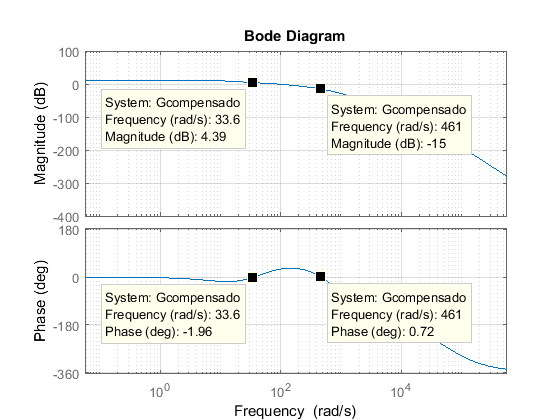
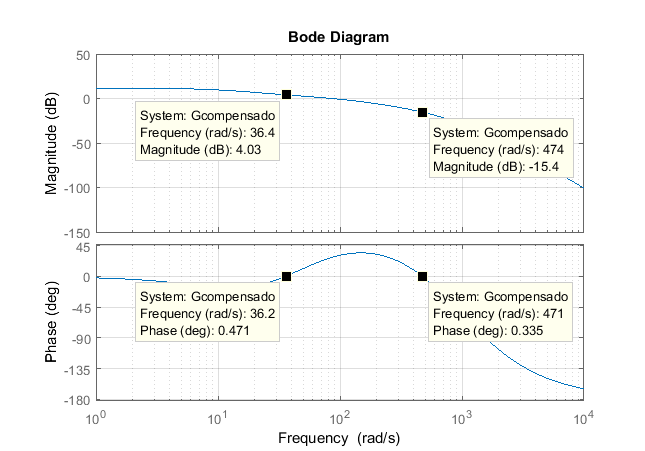
cambios e imagenes

diff --git a/Informe final/Proyecto Levitador LaTeX/Informe/6-CompensadorAnalogico/CompensadorAnalogico.tex b/Informe final/Proyecto Levitador LaTeX/Informe/6-CompensadorAnalogico/CompensadorAnalogico.tex
@@ -1,42 +1,58 @@
 \chapter{Compensador analógico} \chapterlabel{Informe/6-CompensadorAnalogico} \label{cap:Compensador Analogico}
 
-En este capítulo se analiza la dinámica de la planta y se utilizan distintas estrategias para conseguir que el sistema presente el comportamiento deseado. Se diseña un compensador por adelanto de fase que logra la estabilidad incluso para los casos extremos de funcionamiento del sistema. Luego, se agrega un lazo de realimentación con un integrador que permite eliminar el error en régimen permanente.
-
-\section{Descripción general}
-
-
-\noindent Se plantea una compensación compuesta por dos lazos de control como se muestra en la figura \ref{fig:diag-en-bloques-comp}. El lazo de control interno está basado en un controlador por adelanto de fase que cumple la función de estabilizar el sistema. El lazo de control externo contiene un integrador con el objetivo de eliminar el error de posición en régimen permanente.
+En este capítulo se analiza la dinámica de la planta y se utilizan distintas estrategias para conseguir que el sistema presente el comportamiento deseado. Debido a la naturaleza inestable de la planta se propone una estrategia de control que logre estabilizar el sistema mediante un lazo de control interno y luego, mediante un lazo externo, mejorar su comportamiento. 
 
 
 \begin{figure}[H]
 	\centering
 	\includegraphics[scale=0.8]{Diagrama-en-bloques-comp.png}
-	\caption{Diagrama del sistema completo.}
+	\caption{Diagrama simplificado del sistema completo.}
 	\label{fig:diag-en-bloques-comp}
 \end{figure}
+\colorbox{red}{Agregar diagrama generico con: compensador interno, externo, planta  H y Gin}
 
 \section{Lazo de realimentación interno}
 
-\subsection{Análisis de estabilidad con masa de 30 kg}
+En esta sección se diseña el control del lazo de realimentación interno del sistema que está compuesto por las etapas mostradas en la figura asd. 
 
-\noindent Para realizar el análisis de estabilidad se parte de las transferencias de la planta $G_{p}(s)$ para una masa de 30 kg (\ref{eq_transferencia_planta_m}), de la del controlador de corriente $G_{iL}(s)$ (\ref{eq_TLC-cc}) y de la del lazo de realimentación $H_{estim}(s)$ (\ref{eq_TLC_deriv_7}). A partir de ellas se obtiene  la transferencia a lazo abierto total $GH_T(s)$ mostrada en la expresión \ref{eq_GT2}.
+\colorbox{red}{diagrama interno} 
+
+Las funciones transferencias de cada bloque del diagrama asddas están dadas por:
+
+\begin{equation*}
+	G_{iL}(s) =\frac{I_L[A]}{V_{IL_{ref}}[V]}=\frac{6}{1+\frac{s}{12.17}}
+\end{equation*}
+
+\begin{equation*} 
+	G_{p}(M,s)=\frac{Y_g[m]}{I_L[A]}=-\sqrt{\frac{30}{M}}*\frac{1.201}{s^{2}-4900}
+\end{equation*}
+
+\begin{equation*} 
+	H_{estim}(s)=\frac{V_{estim}[V]}{Y_{g}[m]}=\frac{259.6}{(1+\frac{s}{1\:kr/s})}
+\end{equation*}
+
+A continuación se diseña el bloque del compensador interno $G_C$ para lograr la estabilidad del sistema.
+
+\subsection{Análisis de estabilidad}
+
+Para realizar el análisis de estabilidad se parte de las transferencias de la planta $G_{p}(s)$ para una masa de $30\:kg$, de la del controlador de corriente $G_{iL}(s)$ y de la del lazo de realimentación $H_{estim}(s)$. A partir de ellas se obtiene  la transferencia a lazo abierto total $GH_T(s)$ mostrada en la expresión \ref{eq_GT2}.
 
 \begin{equation*} \label{eq_GT1}
-	GH_T(s)=G_{p}(s)*G_{iL}(s)*H_{estim} 
+	GH_T(s)=G_{p}(s)*G_{iL}(s)*H_{estim}(s) 
 \end{equation*}
 
 \begin{equation} \label{eq_GT2}
-		GH_T(s)=\frac{0.38}{(1-(\frac{s}{70})^2)(\frac{s}{12.17\ }+1)(1+\frac{s}{1\:k}){(1+\frac{s}{60\:k})}^2 }	
+		GH_T(s)=\frac{0.38}{(1-(\frac{s}{70\:r/s})^2)(\frac{s}{12.17\:r/s }+1)(1+\frac{s}{1\:kr/s}) }	
 \end{equation}
 
-\noindent A continuación se procede a analizar la respuesta en frecuencia de $GH_T$ y a diseñar un compensador adecuado. Luego, se verificará la estabilidad para una masa de $1\:kg$, que corresponde a la mínima con la que trabaja el sistema.
+\noindent A continuación se procede a analizar la respuesta en frecuencia de $GH_T(s)$ y a diseñar un compensador adecuado. Luego, se verificará la estabilidad para una masa de $1\:kg$, que corresponde a la mínima con la que trabaja el sistema.
 
 
 \noindent Con la transferencia de la ecuación  \ref{eq_GT2} se  grafica el diagrama de Bode y el diagrama de Nyquist. Estos se muestran en las figuras \ref{fig:Diag_Bode_lazo_abierto_30kg} y \ref{fig:Diag_Nyquist_lazo_abierto_30kg} respectivamente.
 
 \begin{figure}[H]
 	\centering
-	\includegraphics[scale=0.6]{bode_planta_30kg.png}
+	\includegraphics[scale=0.8]{bode_planta_30kg.png}
 	\caption{Diagrama de Bode de lazo abierto $GH_T$ con $M=\:30 kg$.}
 	\label{fig:Diag_Bode_lazo_abierto_30kg}
 \end{figure}
@@ -48,38 +64,17 @@ En este capítulo se analiza la dinámica de la planta y se utilizan distintas e
 	\label{fig:Diag_Nyquist_lazo_abierto_30kg}
 \end{figure}
 
-\noindent Para poder observar mejor la forma del Nyquist se hace un acercamiento en torno al origen como se muestra en la figura \ref{fig:Diag_Nyquist_lazo_abierto_zoom_30kg}.
+A partir del diagrama de la figura \ref{fig:Diag_Nyquist_lazo_abierto_30kg} se puede analizar su estabilidad por medio del criterio de Nyquist. Este analiza, para un sistema con realimentación negativa, la cantidad de giros de $1+GH_T$ alrededor del origen. Lo que es equivalente a analizar los giros de GH alrededor del punto $-1+j0$ en la figura \ref{fig:Diag_Nyquist_lazo_abierto_30kg}. 
 
-\begin{figure}[H]
-	\centering
-	\includegraphics[scale=0.6]{nyquist_planta_zoom_30kg.png}
-	\caption{Acercamiento del diagrama de Nyquist de $GH_T$ con $M=30\:kg$.}
-	\label{fig:Diag_Nyquist_lazo_abierto_zoom_30kg}
-\end{figure}
+Es posible notar que no hay giros alrededor de -1. Por lo tanto, considerando que $GH_{T}$ tiene un polo en el semiplano derecho es posible determinar que el sistema realimentado es inestable.
 
-\noindent En la figura \ref{fig:rlocus_m30kg} se puede observar el lugar de raíces de $GH_{T}$ y en la \ref{fig:rlocus_m30kg_zoom} se muestra un acercamiento.
+Para lograr estabilizar este sistema se debe utilizar realimentación positiva en el diagrama en bloques, de manera que ahora se deben observar los giros de $1-GH_T$ alrededor del origen, que equivale a observar $GH_T$ alrededor del punto $+1+j0$. Además, se debe generar una zona en el diagrama de Nyquist donde exista un giro alrededor de 1 en sentido antihorario. Para ello, es necesario aumentar la fase para que pueda superar el valor de 0$\mathrm{{}^\circ}$.  Para que esto se cumpla, el diagrama de Nyquist debe tener una forma como la  mostrada en la figura \ref{fig:nyquist-deseado-analog}.
 
-\begin{figure}[H]
-	\centering
-	\includegraphics[scale=0.45]{rlocus_planta_30kg.png}
-	\caption{Lugar de raíces de $GH_{T}$ con $M=30\:kg$.}
-	\label{fig:rlocus_m30kg}
-\end{figure}
+A partir del diagrama de Nyquist de la figura \ref{fig:Diag_Nyquist_lazo_abierto_30kg} es posible notar que no hay giros alrededor de -1. Por lo tanto, considerando que $GH_{T}$ tiene un polo en el semiplano derecho es posible determinar que el sistema realimentado es inestable.
 
-\begin{figure}[H]
-	\centering
-	\includegraphics[scale=0.45]{rlocus_planta_30kg_zoom.png}
-	\caption{Acercamiento del lugar de raíces de $GH_T$ con $M=30\:kg$.}
-	\label{fig:rlocus_m30kg_zoom}
-\end{figure}
+\colorbox{red}{Corregir esto}
 
-\noindent Como se observa en la figura \ref{fig:rlocus_m30kg_zoom}, $GH_{T}$ tiene un polo en el semiplano derecho. A partir del Nyquist se puede determinar:
-
-\noindent Zona 1: $Z=N+P=0+1=1$ $\mathrm{\to}$ Inestable 
-
-\noindent Zona 2: $Z=N+P=1+1=2$ $\mathrm{\to}$ Inestable
-
-\noindent Por lo tanto, no es posible que el sistema sea estable. Para lograrlo se debe realimentar positivamente y generar una zona en el diagrama de Nyquist donde $N=-1$. Para ello es necesario aumentar la fase para que pueda superar el valor de 0$\mathrm{{}^\circ}$.  Para que esto se cumpla, el diagrama de Nyquist debe tener una forma como la  mostrada en la figura \ref{fig:nyquist-deseado-analog}.
+De esta forma, para lograr la estabilidad se debe realimentar positivamente y generar una zona en el diagrama de Nyquist donde exista un giro alrededor de -1 en sentido antihorario. Sin embargo, debido a que ahora se utiliza realimentación positiva, el diagrama de Nyquist debe analizarse en torno al 1 positivo. Para generar el giro en sentido antihorario es necesario aumentar la fase para que pueda superar el valor de 0$\mathrm{{}^\circ}$.  Para que esto se cumpla, el diagrama de Nyquist debe tener una forma como la  mostrada en la figura \ref{fig:nyquist-deseado-analog}.
 
 \begin{figure}[H]
 	\centering
@@ -89,18 +84,18 @@ En este capítulo se analiza la dinámica de la planta y se utilizan distintas e
 \end{figure}
 
 \subsection{Diseño de la red de adelanto de fase}
+Para lograr el comportamiento del sistema como en la figura 	\ref{fig:nyquist-deseado-analog} se debe tener en cuenta que el m\'{o}dulo de la transferencia de lazo abierto en el primer cruce de la fase por 0$\mathrm{{}^\circ}$ debe ser mayor a $0\:dB$ y, en el segundo cruce, menor. De esta forma, al observar la figura \ref{fig:Diag_Bode_lazo_abierto_30kg} se decide adelantar la fase 100º en aproximadamente $200\:r/s$. Esto se logra mediante el uso de dos redes de adelanto de fase de 65$\mathrm{{}^\circ}$ cada una.
 
-\noindent Para poder lograr el aumento de fase mencionado se utiliza una red de adelanto de fase. Se debe tener en cuenta que el m\'{o}dulo de la transferencia de lazo abierto en el primer cruce de la fase por 0$\mathrm{{}^\circ}$ debe ser mayor a $0\:dB$ y, en el segundo cruce, menor. De esta forma, al observar la figura \ref{fig:Diag_Bode_lazo_abierto_30kg} se decide adelantar la fase 100º en aproximadamente $200\:rad/s$. Esto se logra mediante el uso de dos redes de adelanto de fase de 65$\mathrm{{}^\circ}$ cada una.
 
 \noindent De esta forma, las ecuaciones de dise\~{n}o resultan:
 
 \begin{equation*}
 	\begin{aligned}
-		&W_0 =200\:rad/s\\
+		&W_0 =200\:r/s\\
 		&{\varphi }_{max} =65\textrm{º}\\
 		&\alpha =\frac{1+sen({\varphi }_{max})}{1-sen{(\varphi }_{max})}=20.346491\\
-		&W_c =\frac{W_0}{\sqrt{\alpha }}=\ 44.3\:rad/s\\
-		&W_p =\sqrt{\alpha }*W_0=902.1\: rad/s\\
+		&W_c =\frac{W_0}{\sqrt{\alpha }}=\ 44.3\:r/s\\
+		&W_p =\sqrt{\alpha }*W_0=902.1\: r/s\\
 	\end{aligned}
 \end{equation*} 
 \noindent Finalmente, se llega a la transferencia del controlador:
@@ -109,7 +104,7 @@ En este capítulo se analiza la dinámica de la planta y se utilizan distintas e
 	G_c(s)=K*{[20.346*\frac{(s+44.3)}{(s+902.1)}]}^2
 \end{equation} 
 
-\noindent En la figura \ref{fig:bode-analog-compensado-para-k-1} se muestra el diagrama de bode de ${GH}_T*G_C$ con $K=1$. Se puede observar que la ganancia $K$ puede adoptar valores desde $15.6\:dB$ hasta $35\:dB$ aproximadamente. Al considerar que el sistema debe soportar una masa variable entre $1\:kg$ y $30\:kg$, y que la ganancia de la transferencia de la planta para $1\:kg$ es de $5.5$ veces ($14\:dB$) mayor que para $30\:kg$, se debe adoptar una ganancia del compensador que mantenga la estabilidad para estos dos casos. Es decir, la ganancia m\'{i}nima es de $15.6\:dB$ y la m\'{a}xima es de $35\:dB - 14\:dB = 21\:dB$. Por lo tanto, se elige que el cruce por cero de la ganancia se encuentre ahora en $88\:rad/s$, lo que significa que $K=20\:dB\ \equiv \ 10\: veces$.
+\noindent En la figura \ref{fig:bode-analog-compensado-para-k-1} se muestra el diagrama de bode de ${GH}_T*G_C$ con $K=1$. Se puede observar que la ganancia $K$ puede adoptar valores desde $15.7\:dB$ hasta $35.5\:dB$ aproximadamente. Al considerar que el sistema debe soportar una masa variable entre $1\:kg$ y $30\:kg$, y que la ganancia de la transferencia de la planta para $1\:kg$ es de $5.5$ veces ($14\:dB$) mayor que para $30\:kg$, se debe adoptar una ganancia del compensador que mantenga la estabilidad para estos dos casos. Es decir, la ganancia m\'{i}nima es de $15.7\:dB$ y la m\'{a}xima es de $35.5\:dB - 14\:dB = 21.5\:dB$. Por lo tanto, se elige que el cruce por cero de la ganancia se encuentre ahora en $88\:r/s$, lo que significa que $K=20\:dB\ \equiv \ 10\: veces$.
 
 
 \begin{figure}[H]
